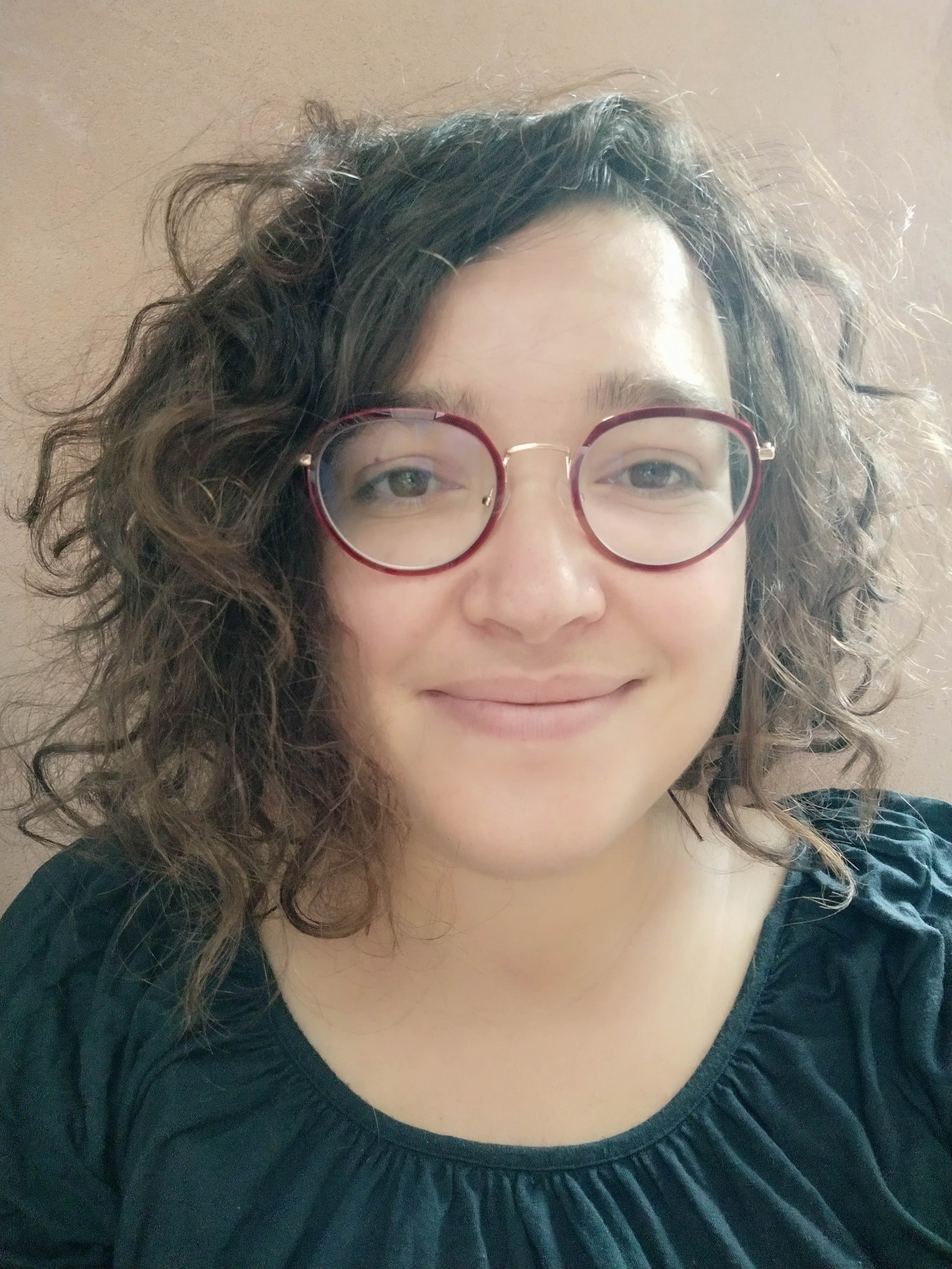
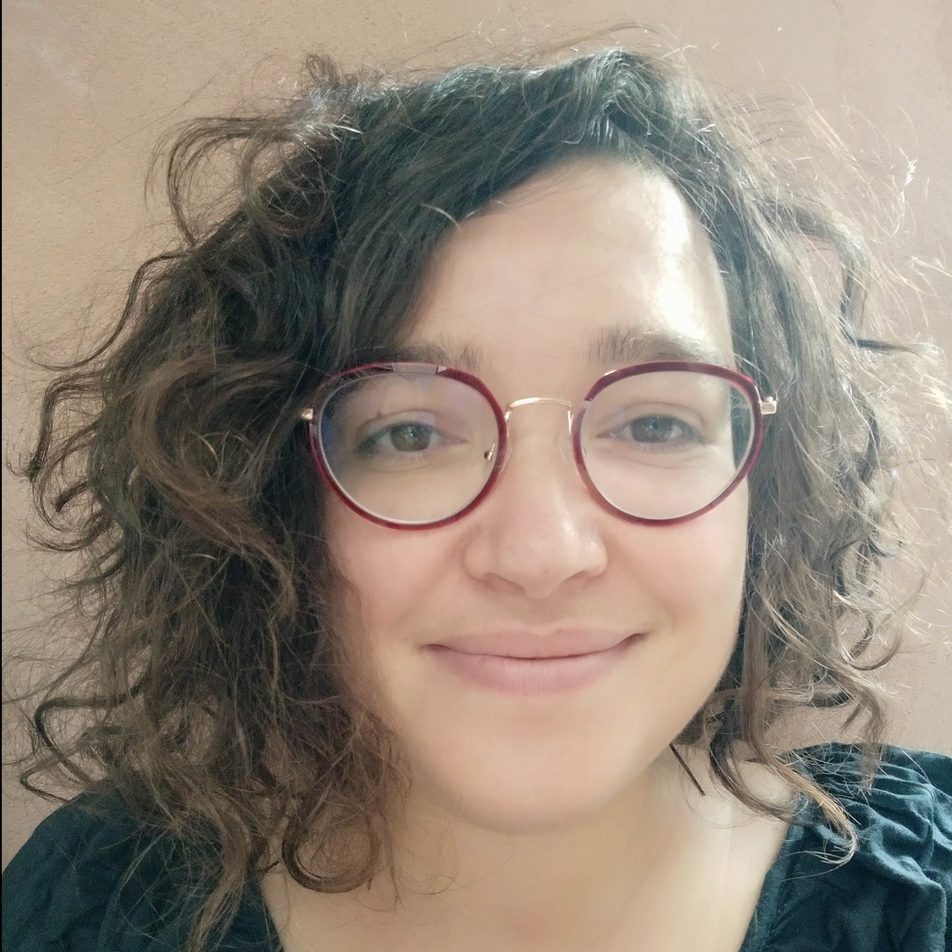
Make Magali's picture square

diff --git a/_members/test.md b/_members/test.md
@@ -6,8 +6,6 @@ image: mrichard.jpg
 position: "Permanent researcher"
 website: "https://magrichard.github.io/"
 github: "https://github.com/magrichard"
-googlescholar: "https://scholar.google.co.il/citations?hl=en&user=qy3usEoAAAAJ"
-orcid: "https://orcid.org/0000-0003-3165-3218""
 lab: TIMC
 team: MAGe
 ---
